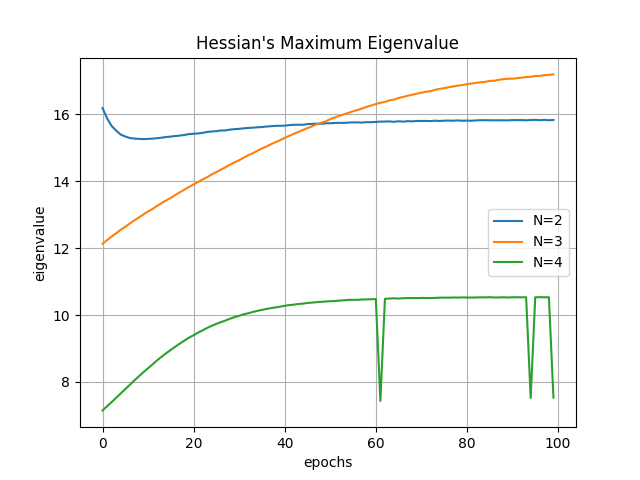
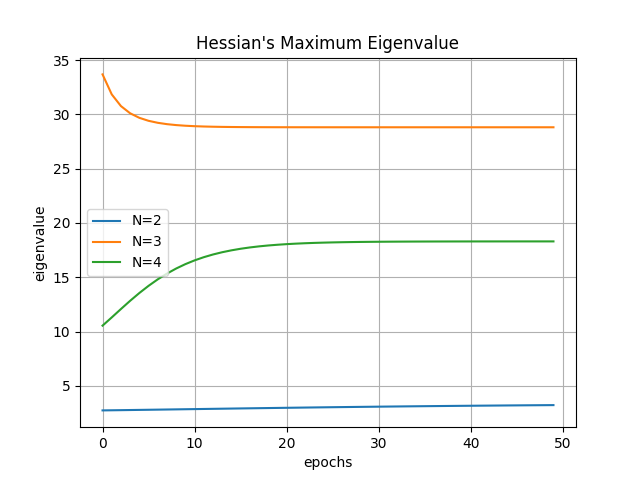
change hidden width, remove bias, and preform training

diff --git a/EX3/Part 2(4)/linear_neural_network_model.py b/EX3/Part 2(4)/linear_neural_network_model.py
@@ -5,16 +5,16 @@ import torch
 class Linear_Network(nn.Module):
     def __init__(self, D_in, D_hidden, D_out, N=2):
         super(Linear_Network, self).__init__()
-        assert D_hidden <= min(D_in, D_out)
+        assert D_hidden >= min(D_in, D_out)
         self.N = N
-        self.input_layer = nn.Linear(D_in, D_hidden, bias=True)
+        self.input_layer = nn.Linear(D_in, D_hidden, bias=False)
         if N>=3:
-            self.first_hidden_layer = nn.Linear(D_hidden, D_hidden, bias=True)
+            self.first_hidden_layer = nn.Linear(D_hidden, D_hidden, bias=False)
         if N>=4:
-            self.second_hidden_layer = nn.Linear(D_hidden, D_hidden, bias=True)
+            self.second_hidden_layer = nn.Linear(D_hidden, D_hidden, bias=False)
 
-        self.output_layer = nn.Linear(D_hidden, D_out, bias=True)
-        
+        self.output_layer = nn.Linear(D_hidden, D_out, bias=False)
+
     def normal_random_init(self, std=1.0):
         nn.init.normal_(self.input_layer.weight, mean=0.0, std=std)
 
@@ -24,20 +24,6 @@ class Linear_Network(nn.Module):
             nn.init.normal_(self.second_hidden_layer.weight, mean=0.0, std=std)
 
         nn.init.normal_(self.output_layer.weight, mean=0.0, std=std)
-
-    def xavier_init(self, std=1.0):
-        nn.init.xavier_uniform_(self.input_layer.weight, mean=0.0, std=std)
-        nn.init.xavier_uniform_(self.input_layer.bias, mean=0.0, std=std)
-
-        if self.N >= 3:
-            nn.init.xavier_uniform_(self.first_hidden_layer.weight, mean=0.0, std=std)
-            nn.init.xavier_uniform_(self.first_hidden_layer.bias, mean=0.0, std=std)
-        if self.N >= 4:
-            nn.init.xavier_uniform_(self.second_hidden_layer.weight, mean=0.0, std=std)
-            nn.init.xavier_uniform_(self.second_hidden_layer.bias, mean=0.0, std=std)
-
-        nn.init.xavier_uniform_(self.output_layer.weight, mean=0.0, std=std)
-        nn.init.xavier_uniform_(self.output_layer.bias, mean=0.0, std=std)
 
     def forward(self, x):
         layer = self.input_layer(x)

diff --git a/EX3/Part 2(4)/statistics/visualize_loss.py b/EX3/Part 2(4)/statistics/visualize_loss.py
@@ -11,11 +11,11 @@ if __name__ == "__main__":
     train_loss_N_4_per_epoch, test_loss_N_4_per_epoch = train_stats_N_4
 
     # Train loss plot
-    x_axis = list(range(8, len(train_loss_N_2_per_epoch)))
+    x_axis = list(range(3, len(train_loss_N_2_per_epoch)))
     fig, ax = plt.subplots()
-    ax.plot(x_axis, train_loss_N_2_per_epoch[8:])
-    ax.plot(x_axis, train_loss_N_3_per_epoch[8:])
-    ax.plot(x_axis, train_loss_N_4_per_epoch[8:])
+    ax.plot(x_axis, train_loss_N_2_per_epoch[3:])
+    ax.plot(x_axis, train_loss_N_3_per_epoch[3:])
+    ax.plot(x_axis, train_loss_N_4_per_epoch[3:])
     ax.set(xlabel='epochs', ylabel='loss', title='Train loss per epoch')
     ax.grid()
     plt.legend(["N=2", "N=3", "N=4"])
@@ -24,11 +24,11 @@ if __name__ == "__main__":
     plt.close(fig)
 
     # Train test plot
-    x_axis = list(range(8, len(test_loss_N_2_per_epoch)))
+    x_axis = list(range(3, len(test_loss_N_2_per_epoch)))
     fig, ax = plt.subplots()
-    ax.plot(x_axis, test_loss_N_2_per_epoch[8:])
-    ax.plot(x_axis, test_loss_N_3_per_epoch[8:])
-    ax.plot(x_axis, test_loss_N_4_per_epoch[8:])
+    ax.plot(x_axis, test_loss_N_2_per_epoch[3:])
+    ax.plot(x_axis, test_loss_N_3_per_epoch[3:])
+    ax.plot(x_axis, test_loss_N_4_per_epoch[3:])
     ax.set(xlabel='epochs', ylabel='loss', title='Test loss per epoch')
     ax.grid()
     plt.legend(["N=2", "N=3", "N=4"])

diff --git a/EX3/Part 2(4)/train_linear_neural_network.py b/EX3/Part 2(4)/train_linear_neural_network.py
@@ -13,10 +13,10 @@ from statistics.calc_min_and_max_eigenval_of_hessian import calc_min_and_max_eig
 
 if __name__ == "__main__":
     neural_net_depths = [2, 3, 4]
-    epochs = 100
+    epochs = 50
     input_dim, output_dim = config.INPUT_DIM, config.OUTPUT_DIM
-    hidden_dims = 1
-    weight_init_std = 1.7
+    hidden_dim = 3
+    weight_init_std = 0.8
     learning_rate = 1e-2
 
     # load dataset
@@ -25,7 +25,7 @@ if __name__ == "__main__":
     for N in neural_net_depths:
 
         # define nn
-        linear_net = Linear_Network(input_dim, hidden_dims, output_dim, N)
+        linear_net = Linear_Network(input_dim, hidden_dim, output_dim, N)
 
         # define Loss function
         loss_fn = torch.nn.MSELoss()
@@ -68,7 +68,7 @@ if __name__ == "__main__":
             weights_gradient_magnitude_per_epoch.append(curr_weights_gradient_magnitude)
 
             # calculate min and max eigenvalue of hessian
-            min_eigenval, max_eigenval = calc_min_and_max_eigenval_of_hessian(linear_net, loss_fn, train_dataloader, N)
+            min_eigenval, max_eigenval = calc_min_and_max_eigenval_of_hessian(linear_net, loss_fn, train_dataloader, N, hidden_dim)
             min_eigenvalue_per_epoch.append(min_eigenval)
             max_eigenvalue_per_epoch.append(max_eigenval)
 

diff --git a/EX3/Part 2(4)/statistics/calc_min_and_max_eigenval_of_hessian.py b/EX3/Part 2(4)/statistics/calc_min_and_max_eigenval_of_hessian.py
@@ -1,12 +1,20 @@
 from pyhessian import hessian
 
-def calc_min_and_max_eigenval_of_hessian(net, loss_fn, train_dataloader, n_eigenvalues):
+def count_num_weights(N, hidden_dim):
+    count = 1       # input_layer adds 1
+    count += (N-1)*hidden_dim
+    count += 1      # output_layer adds 1
+
+    return count
+
+def calc_min_and_max_eigenval_of_hessian(net, loss_fn, train_dataloader, N, hidden_dim):
+    n_eigenvalues = count_num_weights(N, hidden_dim)
     hessian_comp = hessian(net,
                            loss_fn,
                            dataloader=train_dataloader,
                            cuda=False)
 
-    eigenvalues = hessian_comp.eigenvalues(top_n=n_eigenvalues)
+    eigenvalues = hessian_comp.eigenvalues(top_n=n_eigenvalues, maxIter=300, tol=1e-4)
     max_eigenvalue = eigenvalues[0][0]
     min_eigenvalue = eigenvalues[0][-1]
 

diff --git a/EX3/Part 3(4)/end_to_end_dynamics_weight_update.py b/EX3/Part 3(4)/end_to_end_dynamics_weight_update.py
@@ -1,0 +1,2 @@
+def obtain_weights_vector(model):
+    
